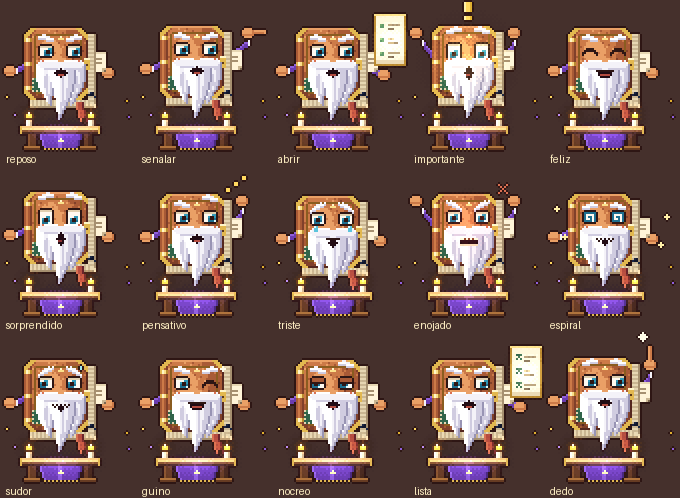
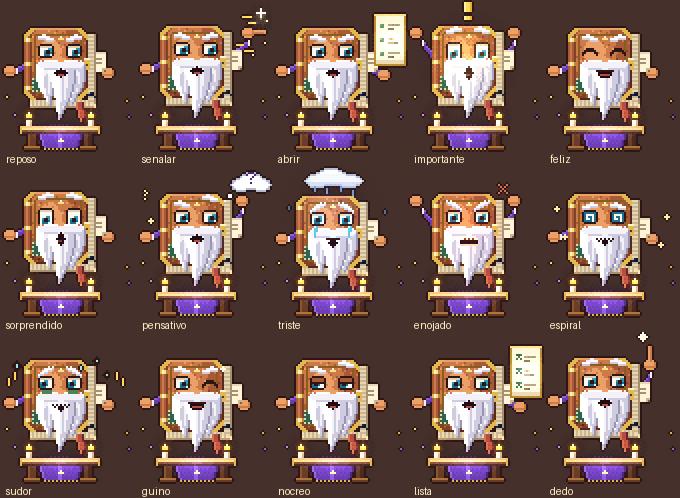
Tutorial: mas efectos en las poses senalar, pensativo, triste y sudor

diff --git a/tools/tutorial-pixel/build_grimorio.py b/tools/tutorial-pixel/build_grimorio.py
@@ -35,16 +35,16 @@ POSES = {
 _D = dict(rh='down', lh='down', look=0)
 HABLAR = {
     'reposo':      dict(POSES['reposo'], mouth='neutral'),
-    'senalar':     dict(POSES['senalar'], mouth='neutral'),
+    'senalar':     dict(POSES['senalar'], mouth='neutral', fx='senalar'),
     'abrir':       dict(POSES['abrir'], mouth='neutral'),
     'importante':  dict(POSES['importante'], mouth='o'),
     'feliz':       dict(dy=0, eye='happy', brow='idle', mouth='smile', **_D),
     'sorprendido': dict(dy=-1, eye='wide', brow='up', mouth='o', **_D),
-    'pensativo':   dict(dy=0, eye='open', brow=('idle', 'up'), mouth='flat', rh='up', lh='down', look=1, dots=True),
-    'triste':      dict(dy=1, eye='open', brow='sad', mouth='frown', tear=True, **_D),
+    'pensativo':   dict(dy=0, eye='open', brow=('idle', 'up'), mouth='flat', rh='up', lh='down', look=1, fx='pensar'),
+    'triste':      dict(dy=1, eye='open', brow='sad', mouth='frown', tear=True, fx='lluvia', halo='#4a6aa8', **_D),
     'enojado':     dict(dy=0, eye='open', brow='angry', mouth='grit', rh='up', lh='up', look=0, mark=True),
     'espiral':     dict(dy=0, eye='spiral', brow='relax', mouth='wavy', stars=True, **_D),
-    'sudor':       dict(dy=0, eye='open', brow='sad', mouth='wavy', sweat=True, rh='down', lh='down', look=-1),
+    'sudor':       dict(dy=0, eye='open', brow='sad', mouth='wavy', sweat=True, fx='nervios', rh='down', lh='down', look=-1),
     'guino':       dict(dy=0, eye=('open', 'happy'), brow='idle', mouth='smile', spark=True, rh='down', lh='down', look=1),
     'nocreo':      dict(dy=0, eye='lid', brow=('idle', 'up'), mouth='flat', rh='down', lh='down', look=-1),
     'lista':       dict(dy=0, eye='open', brow='idle', mouth='neutral', rh='hold', lh='down', look=1, panel='lista'),
@@ -471,6 +471,54 @@ def extras(c, p, dy):
     if p.get('idea'):                                         # chispa de idea sobre el dedo
         c.sprite(BX1 + 3, 1 + dy, ['..#..', '.###.', '#####', '.###.', '..#..'], 'rune', {'#': 6})
 
+def nube(c, cx, cy, mat, lv, rx_list):
+    """Nube hecha de elipses (cx, cy centro; rx_list = [(dx, dy, rx, ry), ...]); borde oscuro."""
+    m = np.zeros((H, W), bool)
+    for (dx, dy_, rx, ry) in rx_list:
+        m |= ell(c, cx + dx, cy + dy_, rx, ry)
+    yy, xx = c.grid()
+    e = m & ~erode(m)
+    lvl = np.full(m.shape, lv, np.float32)
+    lvl[yy > cy + 1] = lv - 1
+    lvl[yy < cy - 2] = lv + 1
+    lvl[e] = 1
+    c.mask(m, mat, lvl)
+
+
+def efectos_pose(c, p, dy):
+    ey = BY0 + dy + 8
+    if p.get('fx') == 'senalar':                              # estela mágica y destello en la punta
+        for (x, y, w) in ((53, 9 + dy, 5), (56, 12 + dy, 4), (50, 23 + dy, 4), (54, 26 + dy, 5)):
+            c.rect(x, y, x + w, y + 1, 'rune', 4)
+        c.sprite(60, 5 + dy, ['..#..', '..#..', '#####', '..#..', '..#..'], 'rune', {'#': 6})
+        c.px(62, 7 + dy, 'wax', 5)
+        for (x, y) in ((65, 11 + dy), (64, 22 + dy), (58, 28 + dy)):
+            c.px(x, y, 'rune', 5)
+    if p.get('fx') == 'pensar':                               # nube de pensamiento con ? y engranaje
+        nube(c, 57, 8, 'cloud', 5, [(-5, 1, 5, 3.5), (0, -1, 6, 4.5), (5, 1, 5, 3.5)])
+        c.sprite(55, 3, ['.###.', '#...#', '...#.', '..#..', '.....', '..#..'], 'arcane', {'#': 2})
+        c.sprite(55, 3, ['.....', '.....', '.....', '.....', '.....', '..#..'], 'arcane', {'#': 2})
+        c.rect(46, 14, 48, 16, 'cloud', 5)
+        c.px(44, 17, 'cloud', 5)
+        c.sprite(3, 12 + dy, ['.#.', '..#', '.#.', '...', '.#.'], 'rune', {'#': 5})   # ? chiquito
+        c.sprite(6, 26 + dy, ['.#.', '###', '.#.'], 'rune', {'#': 5})
+    if p.get('fx') == 'lluvia':                               # nube de lluvia sobre la cabeza
+        nube(c, CX, 6, 'cloud', 3, [(-8, 1, 6, 3.5), (-1, -1, 8, 4.5), (8, 1, 7, 3.5)])
+        for (x, y0_) in ((CX - 9, 10), (CX - 3, 11), (CX + 4, 10), (CX + 10, 12)):
+            c.rect(x, y0_, x + 1, y0_ + 3, 'blue', 5)
+            c.px(x, y0_, 'blue', 6)
+        for (x, y) in ((8, 20), (56, 22)):                    # gotas sueltas a los lados
+            c.rect(x, y, x + 1, y + 2, 'blue', 4)
+        for x in (CX - 9, CX + 8):                            # lágrima que baja por la barba
+            c.rect(x, ey + 10, x + 1, ey + 13, 'crystal', 5)
+    if p.get('fx') == 'nervios':                              # temblor, gotas voladoras y cara pálida
+        for (x, y) in ((7, 20), (4, 23), (58, 20), (61, 23)):
+            c.rect(x, y + dy, x + 1, y + 4 + dy, 'rune', 4)
+        for (x, y, big) in ((7, 15 + dy, True), (47, 13 + dy, False), (52, 20 + dy, False)):
+            c.sprite(x, y, ['.o.', 'o#o', 'o#o', '.o.'] if big else ['.o', 'o#', '.o'], 'crystal', {'o': ('clay', 0), '#': ('crystal', 6)})
+        c.rect(CX - 9, ey + 7, CX - 4, ey + 9, 'green', 4)     # cara verdosa (mejillas pálidas)
+        c.rect(CX + 4, ey + 7, CX + 9, ey + 9, 'green', 4)
+
 
 def particulas(c):
     for (x, y, m, l) in ((3, 48, 'rune', 4), (7, 57, 'arcane', 5), (63, 50, 'rune', 3), (64, 58, 'arcane', 4)):
@@ -491,6 +539,7 @@ def cuadro(name, p, phase=None):
     barba(c, ey, p, phase)
     marcapaginas(c, dy, 2 if name != 'dormido' else 1 if phase is None else (0, 2, 3)[phase])
     extras(c, p, dy)
+    efectos_pose(c, p, dy)
     if p.get('panel'):
         panel(c, dy, p['panel'] == 'lista')
     if p.get('excl'):
@@ -514,6 +563,10 @@ def cuadro(name, p, phase=None):
         halos = [(CX, LEDGE + 2, 26, '#9060dc', 0.9, 2.6), (cl, LEDGE - 6, 9, '#f89a30', 0.8, 1.0), (cr, LEDGE - 6, 9, '#f89a30', 0.8, 1.0)]
     if p.get('excl'):
         halos.append((CX, 30, 30, '#ffd860', 0.6, 1.0))
+    if p.get('halo'):
+        halos.append((CX, 20, 30, p['halo'], 0.45, 1.0))
+    if p.get('fx') == 'senalar':
+        halos.append((62, 9, 9, '#fff0a8', 0.8, 1.0))
     if p.get('mark'):
         halos.append((CX, 30, 30, '#e04030', 0.35, 1.0))
     if p.get('panel'):
